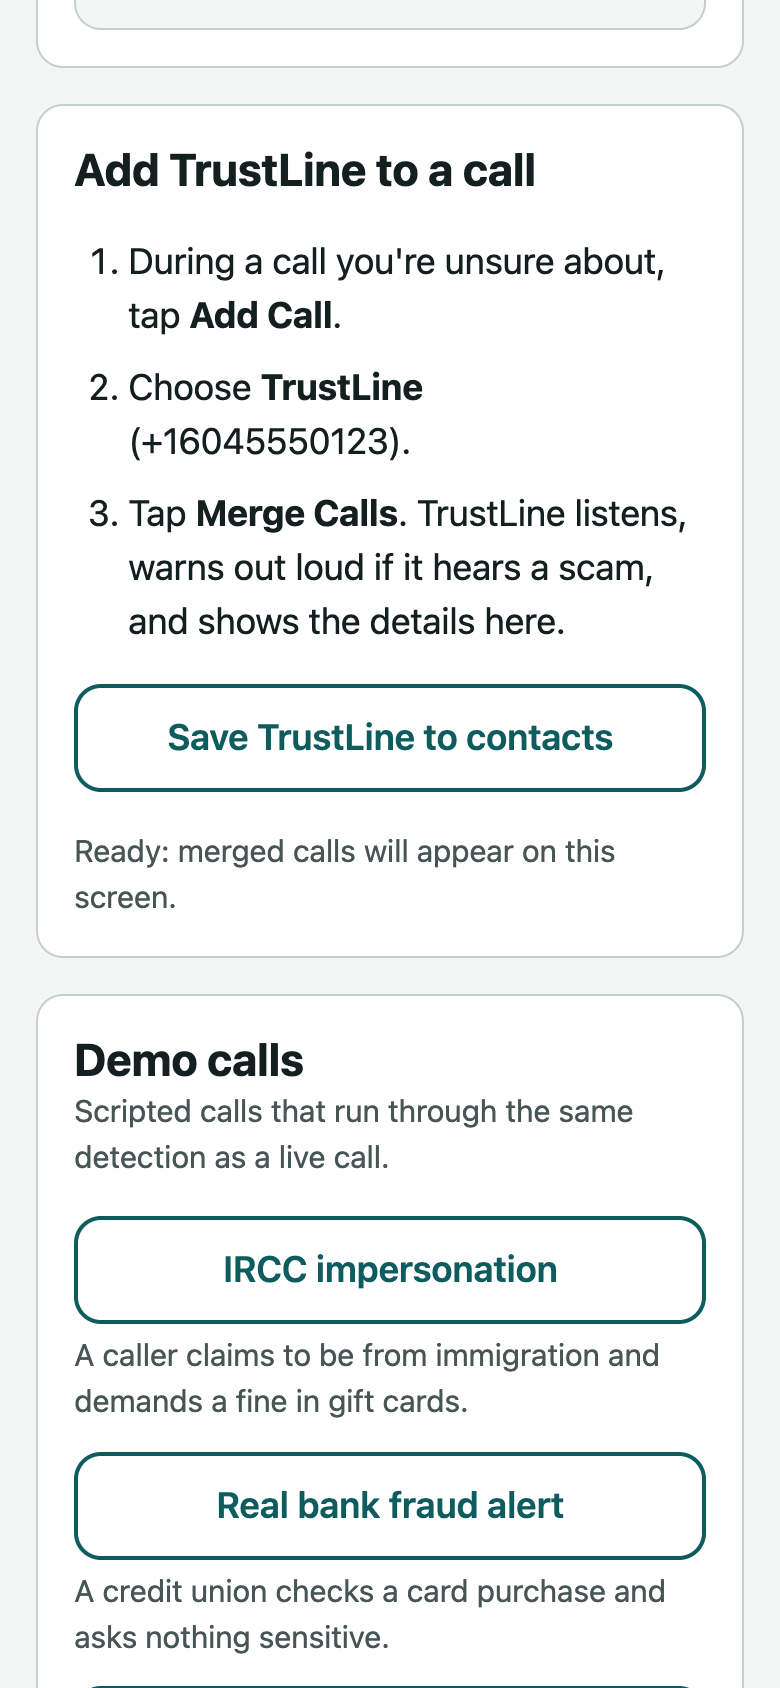
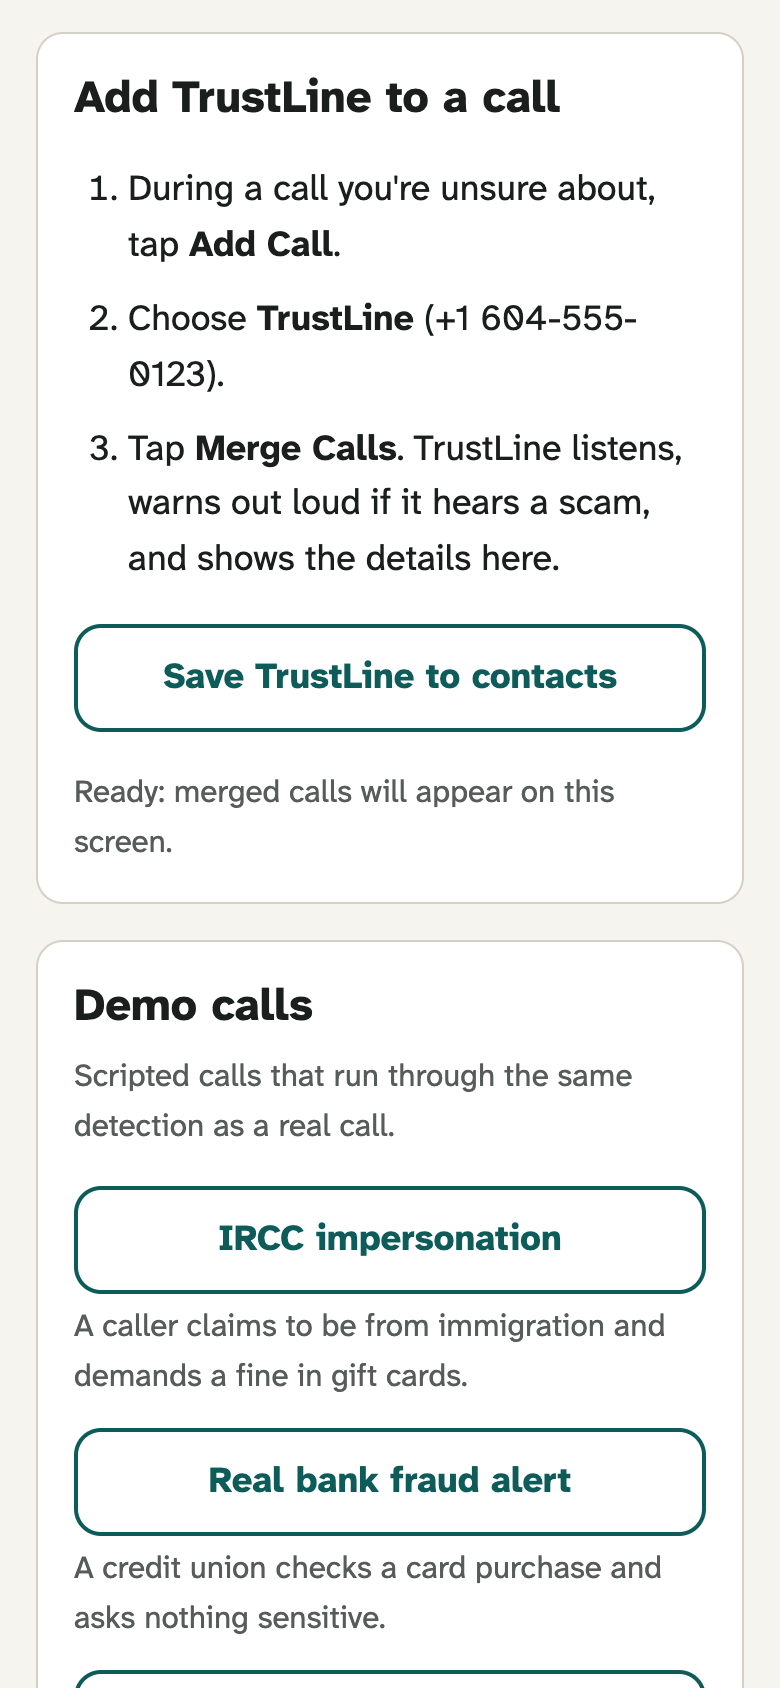
docs: refresh screenshots for the new design and log the design pass for the team

diff --git a/docs/team-sync.md b/docs/team-sync.md
@@ -18,6 +18,20 @@ Add an entry when a change affects the other person: a new dependency or env var
 
 ---
 
+### 2026-10-03: Design pass, spoken official number, keyboard fixes (Ariel)
+
+- **What changed:**
+  - Spoken warnings now end with the verified official number ("You can hang up and call IRCC yourself at 1 888 242 2100") in all five languages. No text messages: the team decided to leave SMS out. `DirectoryEntry` gained a `shortName` field, with `supabase/migrations/0002_directory_short_name.sql` and a regenerated `supabase/seed.sql`.
+  - Design system: self-hosted Atkinson Hyperlegible Next (`@fontsource-variable/atkinson-hyperlegible-next`, new dependency), warmer palette, full token scale in `src/styles/global.css`, and `DESIGN.md` describing the rules. Component CSS must use tokens only.
+  - New shared components in `src/components`: `AppShell` (header, navigation, skip link, page titles), `Logo`, `Chip`/`ChipList`, `Alert` (with `takeFocus` for confirmations), `Field`/`Select`/`Input`/`TextArea`, `ButtonLink`.
+  - Call screen: two columns from 60rem. `WarningCard` and `VerifiedContact` were replaced by `WarningHero` (the warning with its one primary action, calling the official number, and the share action) and `CallerDetails`. `CallAnalysis` now takes a render function that returns `main` and `side` parts.
+  - Partner dashboard: overview sidebar with summary numbers and published advisories. `useAdvisories` moved to `src/hooks/`.
+  - Accessibility: the transcript no longer uses `scrollIntoView`, which moved Chrome's keyboard starting point past the navigation. Focus now moves to the confirmation after sharing or publishing.
+- **Why:** the app only looked right on phones, looked generic, and the spoken warning promised a text message that would not be sent.
+- **What the other person needs to do:** run `npm install` for the font package. Run the Supabase `0002` migration and the regenerated seed if you set up Supabase before this.
+- **Verified:** `npm run check` passes (108 tests). Browser checks at 320, 390, 1280 and 1440px: no horizontal scrolling. axe-core reports no violations on every screen in light and dark themes. A keyboard-only walkthrough of both flows passes. Phone-call flow rehearsed with `npm run simulate:call` (rules only; no Gemini or ElevenLabs key here).
+- **Open questions:** VoiceOver and TalkBack still need testing on a real phone.
+
 ### 2026-10-03: API setup plan revised for Gemini (Rishon)
 
 - **What changed:** `docs/shared-plans/TrustLine-Secure-API-Setup-Plan.md` now describes Gemini instead of Claude Haiku 4.5: creating a free-tier key in AI Studio with no billing account, restricting it to the Generative Language API, `GEMINI_API_KEY` / `GEMINI_MODEL`, free-tier data use, and $0 cost capped by rate limits.

diff --git a/README.md b/README.md
@@ -10,12 +10,15 @@ TrustLine helps newcomers to Canada recognize scam tactics during financial phon
 
 <div style="display: flex; justify-content: center; align-items: center;">
     <kbd><img src="docs/screenshots/add-trustline.png" alt="Steps to add TrustLine to a call" width="200"></kbd>
-    <kbd><img src="docs/screenshots/phone-call.png" alt="A merged phone call with TrustLine's spoken warning" width="200"></kbd>
-    <kbd><img src="docs/screenshots/warning.png" alt="Scam warning in Punjabi with an English line" width="200"></kbd>
-    <kbd><img src="docs/screenshots/verified-contact.png" alt="Official contact for the organization the caller claimed" width="200"></kbd>
+    <kbd><img src="docs/screenshots/phone-call.png" alt="A merged phone call with TrustLine's spoken warning in Punjabi" width="200"></kbd>
+    <kbd><img src="docs/screenshots/warning.png" alt="Scam warning with the official number as the next step" width="200"></kbd>
     <kbd><img src="docs/screenshots/consent.png" alt="Consent sheet showing the redacted report" width="200"></kbd>
-    <kbd><img src="docs/screenshots/partner-dashboard.png" alt="Partner dashboard with a reported call" width="200"></kbd>
     <kbd><img src="docs/screenshots/advisory.png" alt="Community advisory shown to a credit union member" width="200"></kbd>
+</div>
+
+<div align="center">
+    <kbd><img src="docs/screenshots/call-desktop.png" alt="Call check on a desktop screen" width="800"></kbd>
+    <kbd><img src="docs/screenshots/partner-dashboard.png" alt="Partner dashboard on a desktop screen" width="800"></kbd>
 </div>
 
 ## Technologies Used 💻
